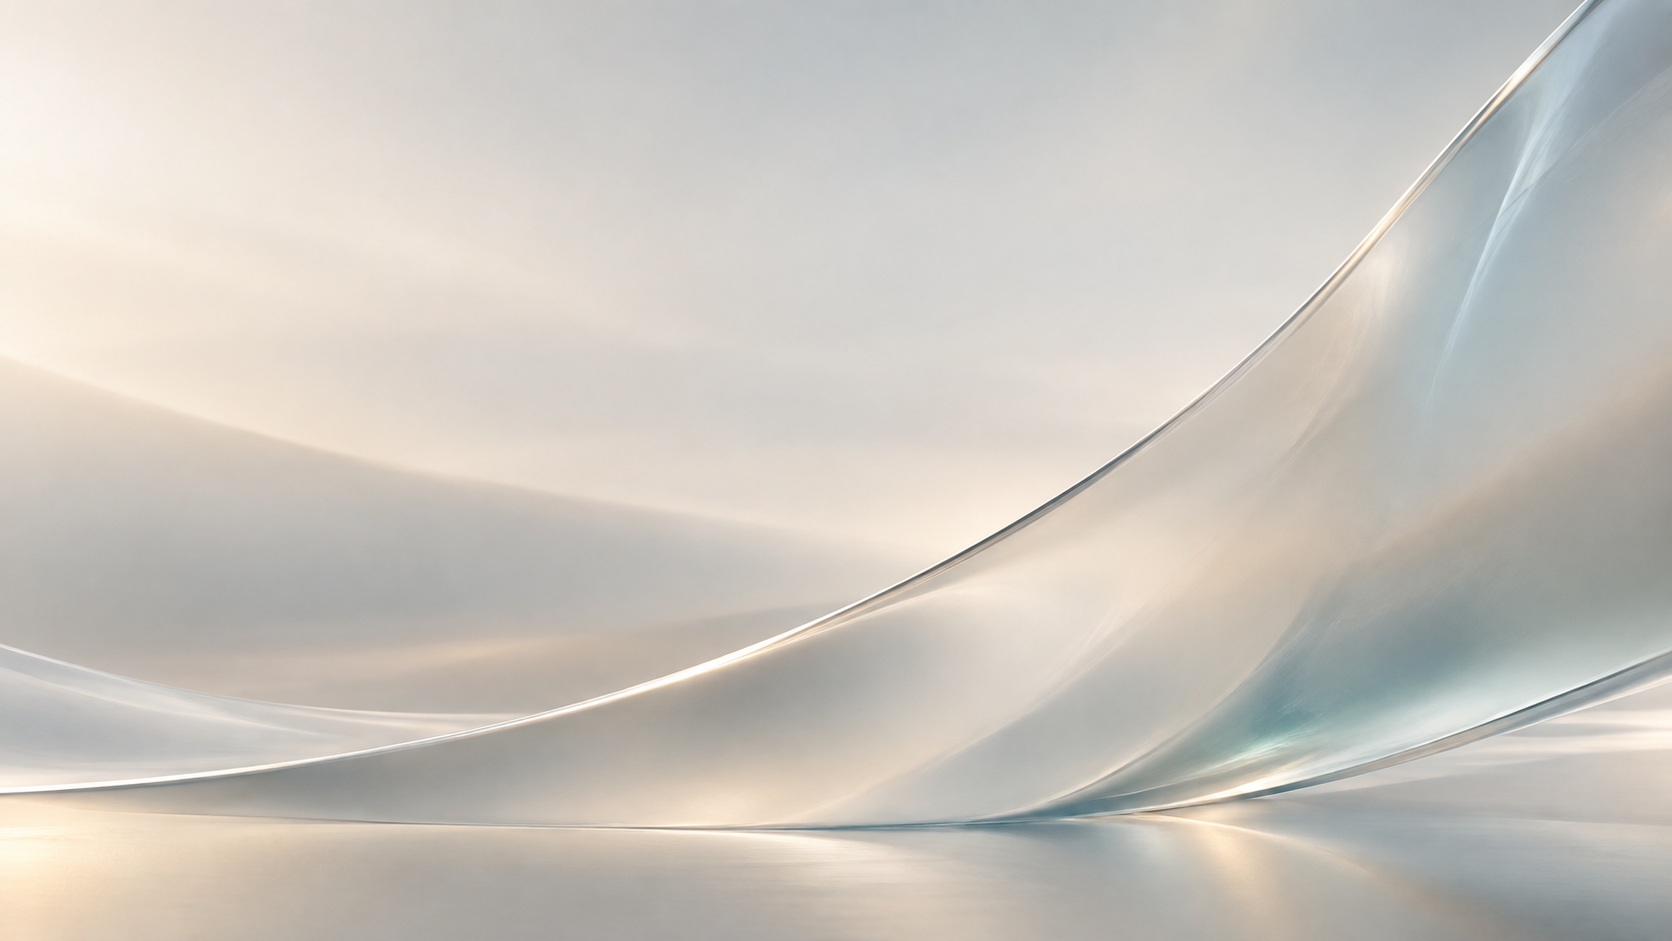
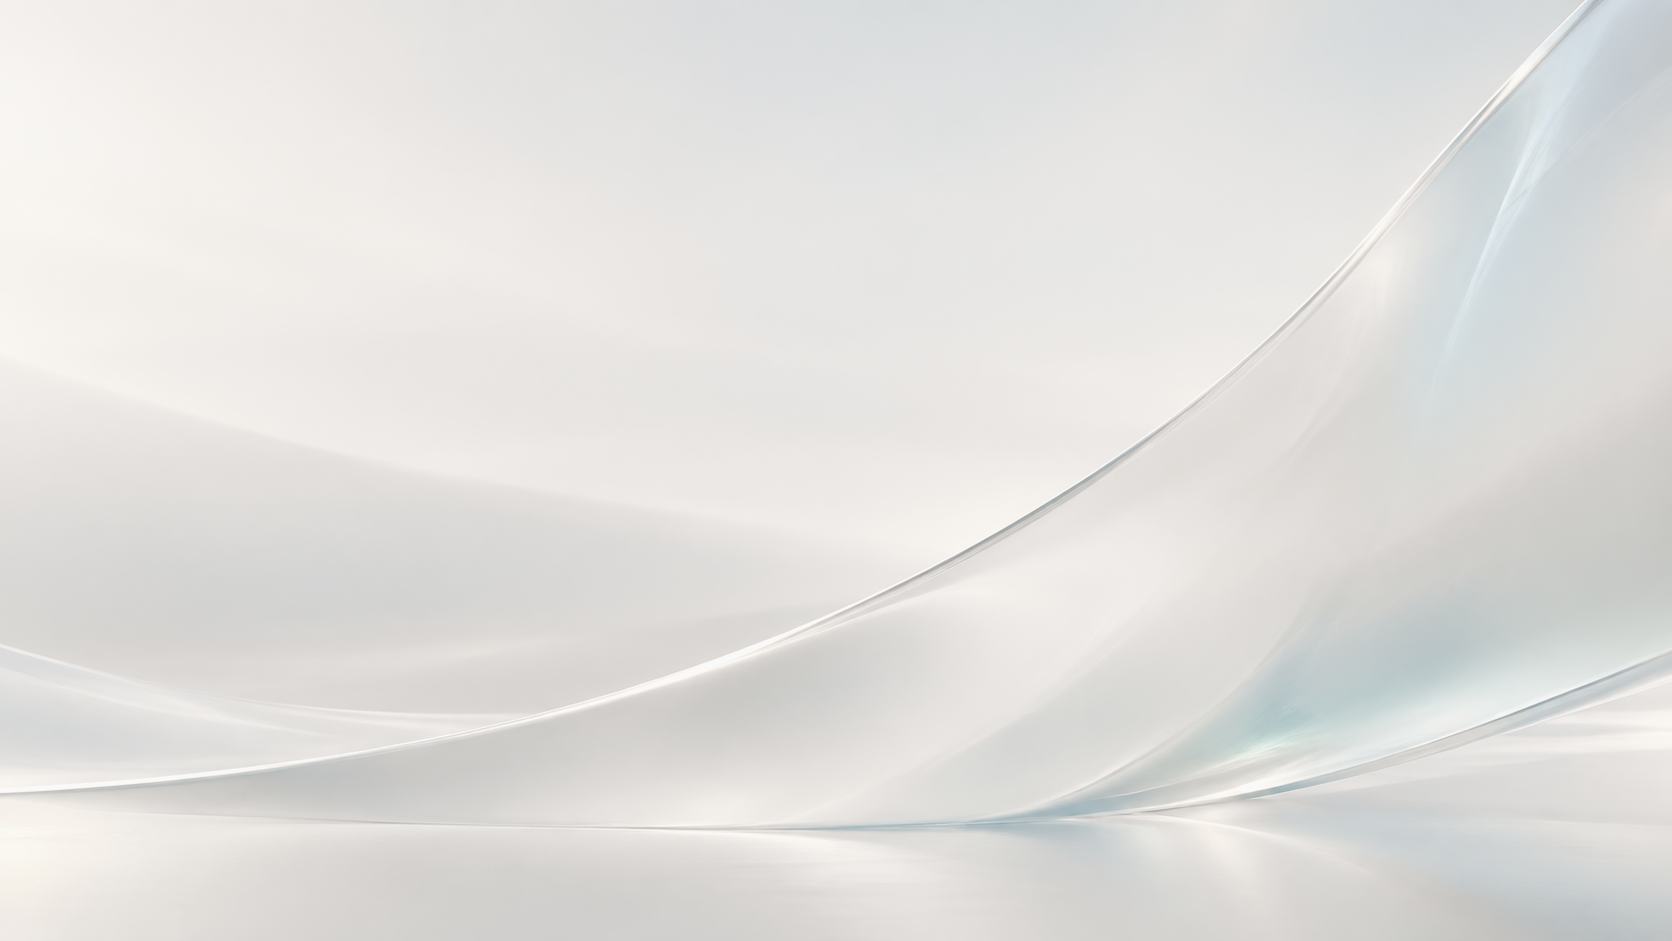
Neutralize landscape warmth and move the curve behind content

diff --git a/lib/core/design/app_light_scene.dart b/lib/core/design/app_light_scene.dart
@@ -160,7 +160,7 @@ class StudyLightScene {
     final bounds = Offset.zero & size;
     final texture = image;
     final paint = Paint()
-      ..color = dark ? const Color(0xFF1B1D20) : const Color(0xFFF3F2EC);
+      ..color = dark ? const Color(0xFF1B1D20) : const Color(0xFFF0F2F2);
     if (texture != null) {
       if (_shader == null || _shaderSize != size) {
         final textureSize = Size(
@@ -168,14 +168,14 @@ class StudyLightScene {
           texture.height.toDouble(),
         );
         final fitted = applyBoxFit(BoxFit.cover, textureSize, size);
-        final scale = fitted.destination.width / fitted.source.width;
-        // A narrow viewport frames the rising side of the same curve. Never
-        // stretch a landscape image or invent a second light source for mobile.
+        // Move the main curve toward the lower/right periphery with one shared
+        // camera crop. Portrait framing keeps it below the initial reading area.
+        final scale = fitted.destination.width / fitted.source.width * 1.16;
         final framing = ((1 - size.aspectRatio) / .45).clamp(0.0, 1.0);
         final matrix = Matrix4.identity()
           ..translateByDouble(
-            (size.width - texture.width * scale) * (.5 + .275 * framing),
-            (size.height - texture.height * scale) / 2,
+            (size.width - texture.width * scale) * (.12 + .42 * framing),
+            (size.height - texture.height * scale) * .08,
             0,
             1,
           )

diff --git a/tool/artwork/export_light_scene.py b/tool/artwork/export_light_scene.py
@@ -1,7 +1,7 @@
 """Export the user-supplied light landscape. Tooling: NumPy and Pillow.
 
-The light image is preserved losslessly; the provisional dark exposure keeps
-the same geometry and colour relationships. The source is not a Flutter asset.
+The original is preserved separately. Neutral grading lifts the background's
+shadows and confines warmth to reflections; the source is not a Flutter asset.
 """
 
 from pathlib import Path
@@ -16,11 +16,23 @@ ARTWORK = ROOT / 'assets/artwork'
 
 def main():
     original = Image.open(ARTWORK / 'source/glass_landscape.png').convert('RGB')
-    original.save(ARTWORK / 'landscape_light.webp', lossless=True, method=6)
     colour = np.asarray(original, dtype=np.float32) / 255
     luminance = (colour * np.array([.2126, .7152, .0722])).sum(axis=2, keepdims=True)
+    # Selectively reduce the yellow cast, retaining more of the cool reflections.
+    # Work on colour separately from brightness to avoid a grey desaturation veil.
+    warmth = np.clip((colour[..., :1] - colour[..., 2:3]) * 9, 0, 1)
+    highlight = np.clip((luminance - .88) / .12, 0, 1)
+    chroma_gain = .62 * (1 - warmth) + (.20 + .16 * highlight) * warmth
+    chroma = (colour - luminance) * chroma_gain
+    # Monotonic, soft compression: lift the dark contour without flattening it
+    # and leave headroom above the broad lit surfaces for narrow highlights.
+    daylight = .35 + .63 * luminance ** .7
+    light = np.clip(daylight + chroma, 0, 1)
+    Image.fromarray(np.rint(light * 255).astype(np.uint8)).save(
+        ARTWORK / 'landscape_light.webp', lossless=True, method=6,
+    )
     exposure = .045 + .22 * luminance ** 3
-    night = np.clip(exposure * (1 + (colour - luminance) * .9), 0, 1)
+    night = np.clip(exposure * (1 + chroma * .9), 0, 1)
     Image.fromarray(np.rint(night * 255).astype(np.uint8)).save(
         ARTWORK / 'landscape_dark.webp', lossless=True, method=6,
     )

diff --git a/tool/artwork/README.md b/tool/artwork/README.md
@@ -2,7 +2,7 @@
 
 2026-09-09 使用项目负责人提供的大曲面玻璃原图，先接入课程页与应用外壳，供实际设备比较。布局、文案、课程颜色、图标和操作流程保持原有设计。本轮是材质与背景的试用，不代表所有页面已经完成背景改造。
 
-`assets/artwork/source/glass_landscape.png` 保留提供的 1672 × 941 原图。`export_light_scene.py` 将浅色原图无损导出为 WebP，并生成同一构图的低曝光深色试用图；深色图是派生调色，不是另一次生图。Flutter 只打包两个 WebP，原图与导出工具不进入安装包。
+`assets/artwork/source/glass_landscape.png` 保留提供的 1672 × 941 原图。`export_light_scene.py` 从原稿派生浅色、深色的 WebP，使用无损编码。build15 根据实际设备反馈收敛大面积暖黄，保留局部暖反光和较清楚的冷色反射；浅色通过单调亮度曲线抬起暗边、收敛背景反差，颜色与亮度分开处理，避免一层去饱和灰雾。深色保持原有曝光关系并采用同样的色彩收敛。两幅图都是派生调色，不是另一次生图。Flutter 只打包两个 WebP，原图与导出工具不进入安装包。
 
 ```sh
 python tool/artwork/export_light_scene.py
@@ -10,7 +10,7 @@ python tool/artwork/export_light_scene.py
 
 工具依赖 NumPy 与 Pillow，本机使用 conda `aider` 环境。
 
-`StudyLightBackdrop` 在应用外壳统一加载图像；`StudyLightScene` 缓存与窗口尺寸对应的纹理变换。宽屏完整铺陈，窄屏逐渐向右侧曲面取景，通过 cover 裁切保持原图比例。课程卡片在绘制时取得其在共享背景中的位置，内面与边缘采样同一纹理，边缘略有折射位移。不存在逐卡片资源加载、布局后测量或背景模糊。窗口外的滚动缓存与边缘采样使用 clamp，避免出现颜色断层。
+`StudyLightBackdrop` 在应用外壳统一加载图像；`StudyLightScene` 缓存与窗口尺寸对应的纹理变换。以 cover 为基础放大 1.16 倍并靠近左上取景，使主曲面向视口右下退让；窄屏平滑调整水平取景位置，保持原图比例和初始阅读区域的安静。课程卡片在绘制时取得其在共享背景中的位置，内面与边缘采样同一纹理，边缘略有折射位移。不存在逐卡片资源加载、布局后测量或背景模糊。窗口外的滚动缓存与边缘采样使用 clamp，避免出现颜色断层。
 
 图像加载和主题更换通过 inherited scope 更新保留页面中的卡片，旧 ImageInfo 依照 Flutter Image 的方式在帧结束后释放。深色使用相同构图，避免主题切换后光源与形体位置改变。
 
